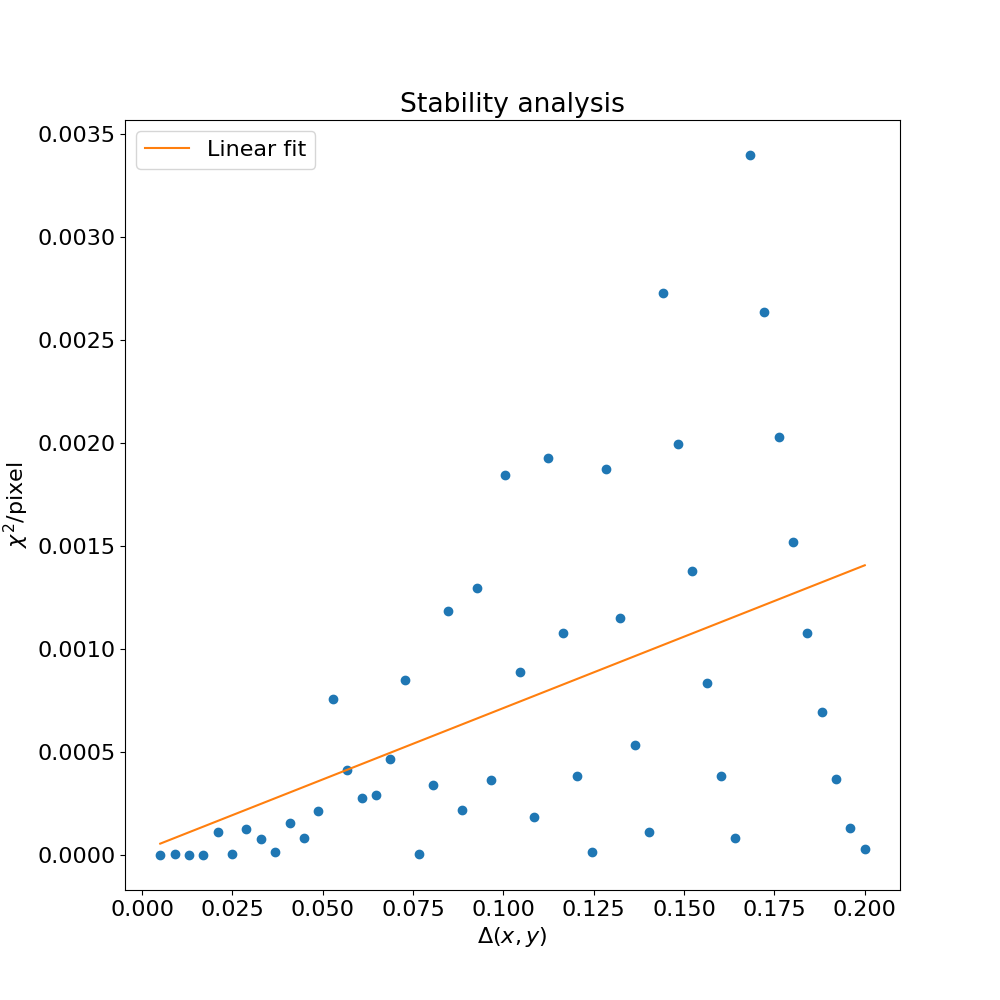
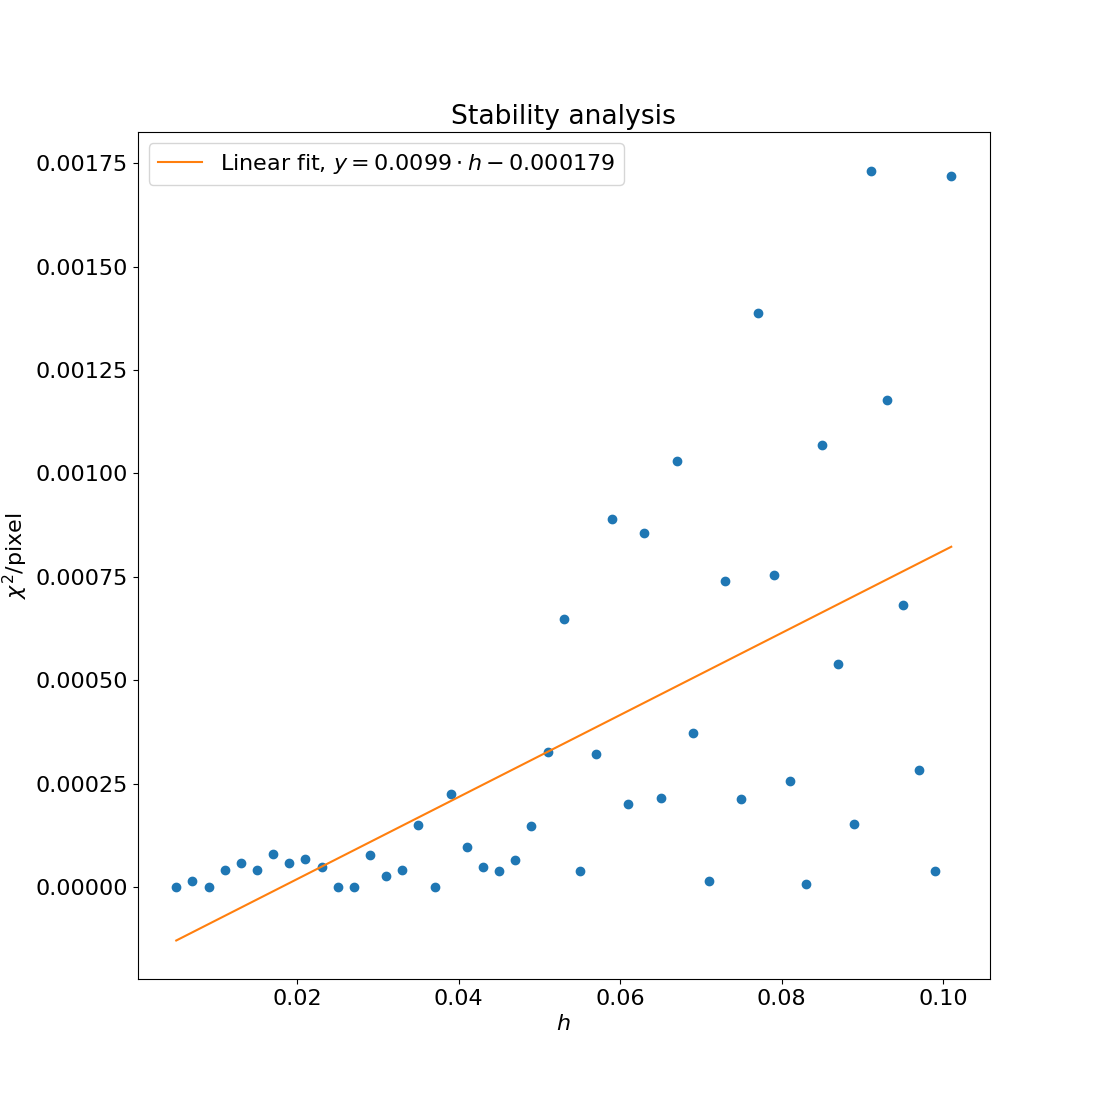
søndag

diff --git a/project5/2D/ef.py b/project5/2D/ef.py
@@ -3,6 +3,7 @@ from run import *
 import matplotlib.pyplot as plt
 from astropy import constants
 from analytic_2D import analytic_func
+from chi_squared import chi_squared_func
 plt.rcParams['font.size'] = 16
 xy0 = 0
 xy1 = 1
@@ -17,38 +18,47 @@ data = np.loadtxt('data_2D.txt')
 
 
 extent = [0,1,0,1]
-plt.figure(figsize=(12,12))
-ax1 = plt.subplot(2,2,1)
-ax1.set_title('t = %g'% T_end)
-im = ax1.imshow(data, cmap='inferno', extent = extent)
-plt.colorbar(im, ax = ax1,fraction=0.046, pad=0.04)
 
-ax2 = plt.subplot(2,2,2,projection='3d')
-ax2.set_title('Surface plot')
+plt.figure(figsize=(9,9))
+plt.title('Computed diffusion model')
+im1 = plt.imshow(data, cmap='inferno', extent = extent)
+plt.colorbar(im1,fraction=0.046, pad=0.04)
+plt.xlabel('x')
+plt.ylabel('y')
+plt.savefig('computed_2D.png')
+
+plt.figure(figsize=(9,9))
+ax2 = plt.subplot(1,1,1,projection='3d')
+ax2.set_title('Surface plot of numerical solution')
 X, Y = np.meshgrid(xy,xy)
 ax2.plot_surface(X, Y, data, cmap='magma', rcount=200, ccount=200)
 ax2.axis((1.1, -0.1, -0.1, 1.1));
 ax2.set_xlabel("y")
 ax2.set_ylabel("x")
 ax2.set_zlabel("z")
+plt.savefig('computed_3D.png')
 
 
 analytic = analytic_func(X,Y,T_end)
-ax3 = plt.subplot(2,2,3)
-ax3.set_title('t = %g'% T_end)
-im = ax3.imshow(analytic, cmap='inferno', extent = extent)
-plt.colorbar(im, ax = ax3,fraction=0.046, pad=0.04)
+plt.figure(figsize=(9,9))
+plt.title('Analytic solution in 2D')
+im3 = plt.imshow(analytic, cmap='inferno', extent = extent)
+plt.colorbar(im3,fraction=0.046, pad=0.04)
+plt.xlabel('x')
+plt.ylabel('y')
+plt.savefig('analytic_2D.png')
 
-rel_err = np.abs(analytic[1:-1,1:-1]-data[1:-1,1:-1])/analytic[1:-1,1:-1]
-ax4 = plt.subplot(2,2,4)
-ax4.set_title('t = %g'% T_end)
-im = ax4.imshow(rel_err, cmap='inferno', extent = extent)
-plt.colorbar(im, ax = ax4,fraction=0.046, pad=0.04)
+chi_ij = (data[1:-1,1:-1]-analytic[1:-1,1:-1])**2/analytic[1:-1,1:-1]
+plt.figure(figsize=(9,9))
+plt.title(r'$\chi^2_{i,j}$')
+im4 = plt.imshow(chi_ij, cmap='inferno', extent = extent)
+plt.colorbar(im4,fraction=0.046, pad=0.04)
+plt.xlabel('x')
+plt.ylabel('y')
+plt.savefig('chi_sqrd.png')
 
-
-plt.savefig('computed_2D.png')
-
-
+plt.show()
+'''
 fig, ax = plt.subplots(1,2,figsize=(12,6))
 slice_data = data[data.shape[0]//2,:]
 slice_ana = analytic[data.shape[0]//2,:]
@@ -61,4 +71,4 @@ ax[0].legend()
 ax[1].set_title('Relative error')
 slice_rel_err = np.abs(slice_ana[1:-1]-slice_data[1:-1])/slice_ana[1:-1]
 ax[1].plot(xy[1:-1], slice_rel_err)
-plt.show()
+plt.show()'''

diff --git a/project5/2D/dxy_analysis.py b/project5/2D/dxy_analysis.py
@@ -9,7 +9,10 @@ plt.rcParams['font.size'] = 16
 xy0 = 0
 xy1 = 1
 N = 50
-dxy = np.linspace(0.005,0.2, N)
+delta = 0.002
+#dxy = np.linspace(0.005,0.1, N+1)
+dxy = np.arange(0.005,0.1+delta, delta)
+N = len(dxy)
 chi_arr = np.zeros((N))
 Nxy = np.zeros((N))
 T_end = 0.02
@@ -17,9 +20,9 @@ r = 4
 dt = dxy[0]**2/r
 
 a=0
-for i in range(N):
+for i in range(len(dxy)):
     a+=1
-    print('computed = ',a,'/',N, end = "\r")
+    print('computed = ',a,'/',len(dxy)+1, end = "\r")
     #dt = dxy[i]**2/r
     run_func(T_end, dt, dxy[i])
     data = np.loadtxt('data_2D.txt')
@@ -29,11 +32,11 @@ for i in range(N):
     chi_arr[i] = chi_squared_func(data, analytic_func(X, Y, T_end))
 
 m, b = np. polyfit(dxy, chi_arr/Nxy, 1)
-plt.figure(figsize=(10,10))
+plt.figure(figsize=(11,11))
 plt.title('Stability analysis')
 plt.plot(dxy, chi_arr/Nxy, 'o')
-plt.plot(dxy, m*dxy + b, label='Linear fit')
-plt.xlabel(r'$\Delta (x,y)$')
+plt.plot(dxy, m*dxy + b, label='Linear fit, $y = %.4f\cdot h %.6f$' % (m, b))
+plt.xlabel(r'$h$')
 plt.ylabel(r'$\chi^2/$pixel')
 plt.legend()
 plt.savefig('dxy_stability.png')

diff --git a/project5/2D/dt_analysis.py b/project5/2D/dt_analysis.py
@@ -42,7 +42,7 @@ plt.title('Stability analysis')
 plt.plot(r, chi, 'o')
 plt.vlines(r[indx],ymin=0, ymax=np.max(chi), ls='dashed', colors ='red', label='$r = %.3f$' % r[indx])
 plt.yscale('log')
-plt.xlabel(r'$r=\frac{\left(\Delta (x,y)\right)^2}{\Delta t}$')
+plt.xlabel(r'$r$')
 plt.ylabel(r'$\chi^2$')
 plt.legend()
 plt.savefig('dt_stability.png')
